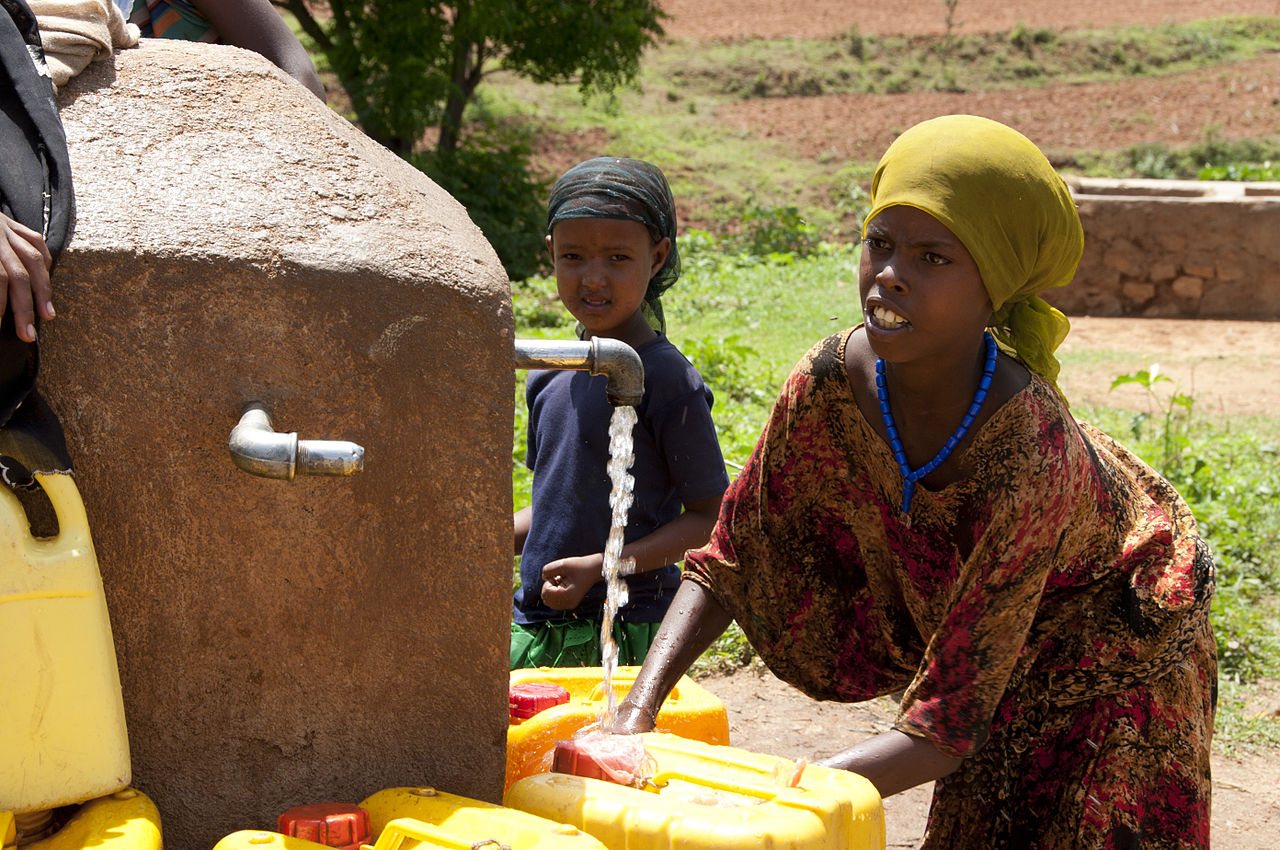
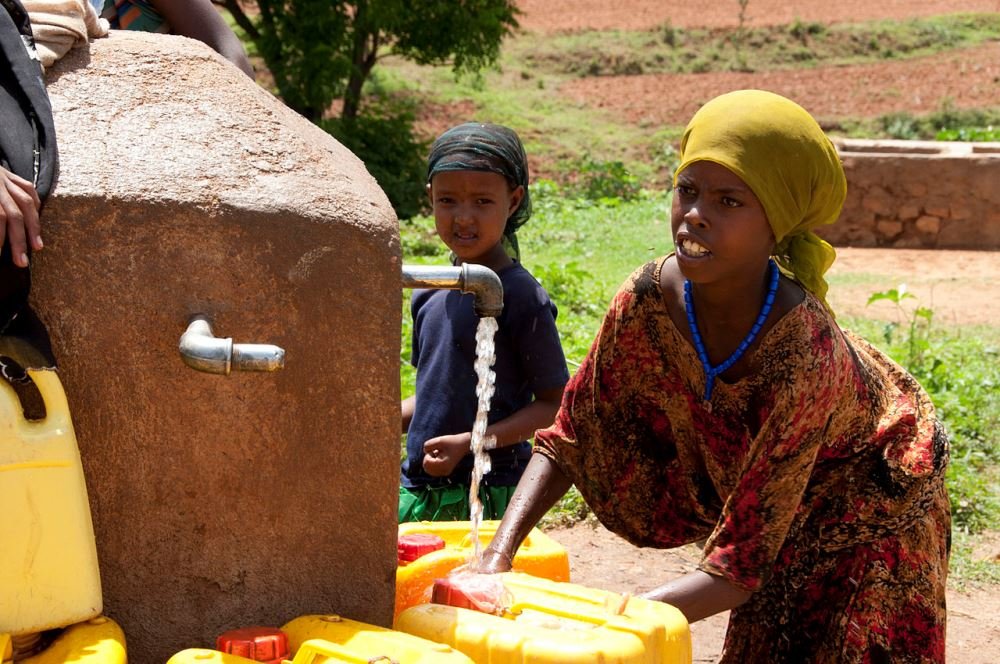
Add elements at the header
Give email and contact at the header and reduction in image sizes

diff --git a/css/style.css b/css/style.css
@@ -1,5 +1,7 @@
 html, body {
     font-family: 'Segoe UI', Tahoma, Geneva, Verdana, sans-serif;
+    margin: 0;
+    padding: 0;
 }
 .nav-wrapper.container {
     width: 90%;
@@ -56,6 +58,8 @@ section#steps_2_help {
     margin-top: -7em;
 }
 
+
+
 section#steps_2_help .col {
     background-image: url(../images/food_safty.jpg);
     background-size: 100% 100%;
@@ -86,4 +90,38 @@ section#steps_2_help .col .overlay {
     border-left: 5px solid seagreen;
     color: seagreen;
     padding: 0.7em;
+}
+
+div#padder {
+    margin-top: -1em;
+    height: 57px;
+    padding: 0.55em;
+}
+
+div#padder ul a {
+    color: #ffffff !important;
+}
+div#padder ul > li {
+padding: 0 1em;
+}
+div#padder > ul > li {
+    float: left;
+    margin: 0em 1em;
+}
+
+div#padder > ul > li:nth-child(1) > i {
+left: 18px;
+}
+div#padder > ul > li > i {
+line-height: inherit;
+font-size: 23px;
+position: absolute;
+top: 4px;
+}
+
+div#padder > ul > li:nth-child(1) > i {
+left: 16px;
+}
+div#padder > ul > li:nth-child(2) > i {
+left: 303px;
 }

diff --git a/index.html b/index.html
@@ -12,10 +12,25 @@
 	</head>
 
 	<body>
-
+		<div id="padder" class="grey darken-3 white-text">
+			<ul>
+			<li>
+				<i class="icon ion-ios-email-outline"></i>
+				<a href="mailto:info@helimatrix.stamplayapp.com">info@helimatrix.stamplayapp.com</a>		
+			</li>
+			<li>
+				<i class="icon ion-android-call"></i>
+				<a href="tel:(84)963868345">(84)963868345</a>
+			</li>
+			<li class="right">
+				
+			</li>
+		</ul>
+		</div>
+		
 		<nav class="white lighten-5">
 			<div class="nav-wrapper container">
-				<a href="index.html" class="brand-logo green-text">Foundation</a>
+				<a href="index.html" class="brand-logo green-text">Helimatrix</a>
 				<ul class="right">
 					<li><a href="#" class="waves-effect active">Home</a></li>
 					<li><a href="#" class="waves-effect">Causes</a></li>
